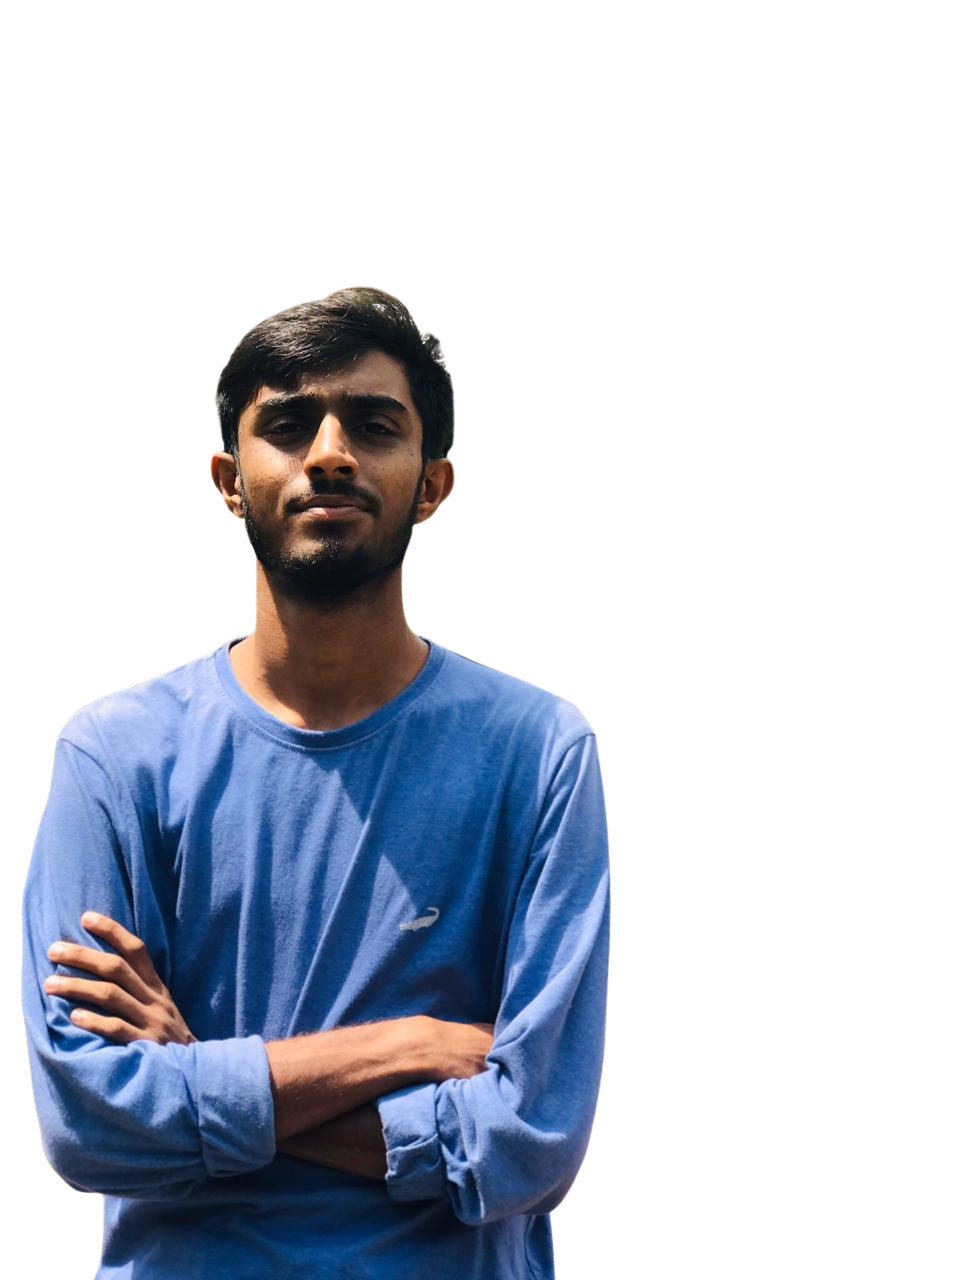
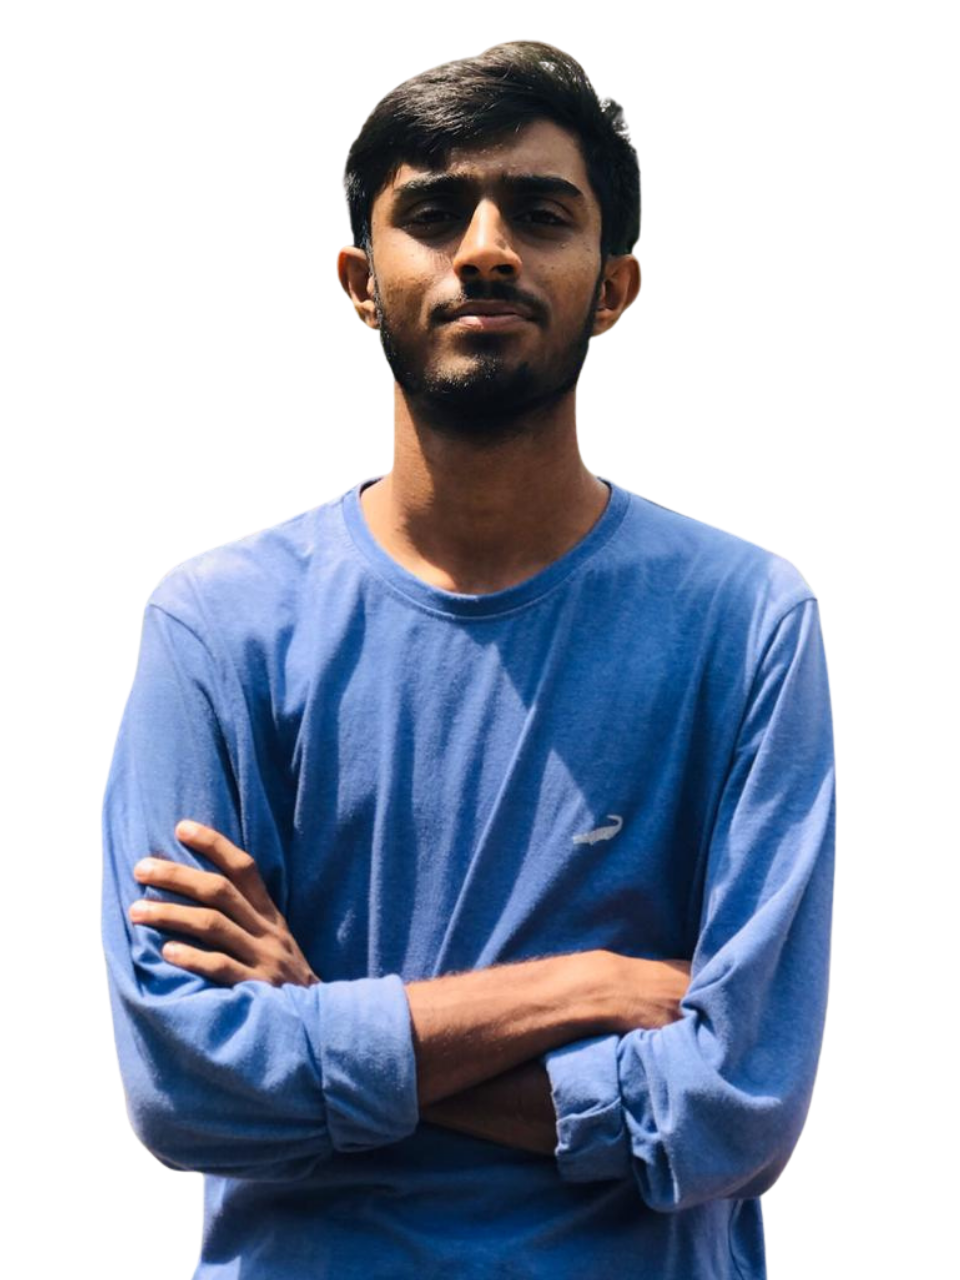
uploading portfolio

diff --git a/src/components/Contact.jsx b/src/components/Contact.jsx
@@ -1,12 +1,9 @@
 export default function Contact() {
-  // handle Web3Forms submission
   const onSubmit = async (event) => {
     event.preventDefault();
     const formData = new FormData(event.target);
 
-    // add your Web3Forms access key
     formData.append("access_key", "7769eadd-de41-47ea-894d-790b8655bc43");
-
     const object = Object.fromEntries(formData);
     const json = JSON.stringify(object);
 
@@ -33,94 +30,103 @@ export default function Contact() {
       className="px-8 py-16 bg-darkblue"
       style={{ fontFamily: '"Times New Roman", Times, serif' }}
     >
+      {/* Heading */}
       <h1 className="text-4xl md:text-5xl font-extrabold text-center text-gold mb-6">
         Contact Me
       </h1>
       <div className="w-24 h-1 bg-gold mx-auto mb-12 rounded-full"></div>
-      <p className="mb-10 text-center text-gray-400 text-2xl mr-150">
-        Let's connect! Fill out the form below 👇
-      </p>
 
-      <div className="max-w-6xl mx-auto flex flex-col md:flex-row gap-10">
-        {/* Contact Form */}
-        <form
-          onSubmit={onSubmit}
-          className="flex-1 bg-gray-800 p-8 rounded-2xl shadow-lg space-y-4 border border-white text-white"
-        >
-          <div>
-            <label htmlFor="name" className="block text-sm font-medium text-gray-100">
-              Full Name
-            </label>
-            <input
-              type="text"
-              id="name"
-              name="name"
-              required
-              className="mt-1 w-full px-4 py-2 border rounded-lg border-white focus:ring-1 focus:ring-gold focus:outline-none"
-            />
-          </div>
+      {/* Container for paragraph + form + info */}
+      <div className="max-w-6xl mx-auto flex flex-col items-center md:items-start gap-10">
+        
+        {/* Paragraph: order changes on medium+ screens */}
+<p className="mb-10 text-center text-gray-400 text-2xl md:ml-24">
+  Let's connect! Fill out the form below 👇
+</p>
 
-          <div>
-            <label htmlFor="email" className="block text-sm font-medium text-gray-100">
-              Email Address
-            </label>
-            <input
-              type="email"
-              id="email"
-              name="email"
-              required
-              className="mt-1 w-full px-4 py-2 border rounded-lg border-white focus:ring-1 focus:ring-gold focus:outline-none"
-            />
-          </div>
 
-          <div>
-            <label htmlFor="message" className="block text-sm font-medium text-gray-100">
-              Message
-            </label>
-            <textarea
-              id="message"
-              name="message"
-              rows="4"
-              required
-              className="mt-1 w-full px-4 py-2 border rounded-lg border-white focus:ring-1 focus:ring-gold focus:outline-none"
-            ></textarea>
-          </div>
-
-          <button
-            type="submit"
-            className="w-full bg-blue-600 text-white px-6 py-3 rounded-lg font-semibold hover:bg-blue-700 transition"
+        {/* Form + Contact Info Wrapper */}
+        <div className="flex flex-col md:flex-row w-full gap-10">
+          {/* Contact Form */}
+          <form
+            onSubmit={onSubmit}
+            className="flex-1 bg-gray-800 p-8 rounded-2xl shadow-lg space-y-4 border border-white text-white"
           >
-            Send Message
-          </button>
-        </form>
-
-        {/* Contact Info */}
-        <div className="flex-1 flex flex-col justify-center items-start p-8 rounded-2xl text-white space-y-6 text-left">
-          {/* Email */}
-          <div className="flex flex-col">
-            <div className="flex items-center space-x-2">
-              <i className="fas fa-envelope text-xl" style={{ color: 'var(--color-dark2-blue)' }}></i>
-              <span className="font-bold text-lg gold">Email</span>
+            <div>
+              <label htmlFor="name" className="block text-sm font-medium text-gray-100">
+                Full Name
+              </label>
+              <input
+                type="text"
+                id="name"
+                name="name"
+                required
+                className="mt-1 w-full px-4 py-2 border rounded-lg border-white focus:ring-1 focus:ring-gold focus:outline-none"
+              />
             </div>
-            <p className="mt-1 text-gray-400">rifdhiramiz18@gmail.com</p>
-          </div>
 
-          {/* Phone */}
-          <div className="flex flex-col">
-            <div className="flex items-center space-x-2">
-              <i className="fas fa-phone text-xl" style={{ color: 'var(--color-dark2-blue)' }}></i>
-              <span className="font-bold text-lg gold">Phone</span>
+            <div>
+              <label htmlFor="email" className="block text-sm font-medium text-gray-100">
+                Email Address
+              </label>
+              <input
+                type="email"
+                id="email"
+                name="email"
+                required
+                className="mt-1 w-full px-4 py-2 border rounded-lg border-white focus:ring-1 focus:ring-gold focus:outline-none"
+              />
             </div>
-            <p className="mt-1 text-gray-400">+94 76 247 3449</p>
-          </div>
 
-          {/* Location */}
-          <div className="flex flex-col">
-            <div className="flex items-center space-x-2">
-              <i className="fas fa-map-marker-alt text-xl" style={{ color: 'var(--color-dark2-blue)' }}></i>
-              <span className="font-bold text-lg gold">Location</span>
+            <div>
+              <label htmlFor="message" className="block text-sm font-medium text-gray-100">
+                Message
+              </label>
+              <textarea
+                id="message"
+                name="message"
+                rows="4"
+                required
+                className="mt-1 w-full px-4 py-2 border rounded-lg border-white focus:ring-1 focus:ring-gold focus:outline-none"
+              ></textarea>
             </div>
-            <p className="mt-1 text-gray-400">Mawanella, Sri Lanka</p>
+
+            <button
+              type="submit"
+              className="w-full bg-blue-600 text-white px-6 py-3 rounded-lg font-semibold hover:bg-blue-700 transition"
+            >
+              Send Message
+            </button>
+          </form>
+
+          {/* Contact Info */}
+          <div className="flex-1 flex flex-col justify-center items-center md:items-start p-8 rounded-2xl text-white space-y-6 text-center md:text-left">
+            {/* Email */}
+            <div className="flex flex-col items-center md:items-start">
+              <div className="flex items-center space-x-2">
+                <i className="fas fa-envelope text-xl" style={{ color: 'var(--color-dark2-blue)' }}></i>
+                <span className="font-bold text-lg gold">Email</span>
+              </div>
+              <p className="mt-1 text-gray-400">rifdhiramiz18@gmail.com</p>
+            </div>
+
+            {/* Phone */}
+            <div className="flex flex-col items-center md:items-start">
+              <div className="flex items-center space-x-2">
+                <i className="fas fa-phone text-xl" style={{ color: 'var(--color-dark2-blue)' }}></i>
+                <span className="font-bold text-lg gold">Phone</span>
+              </div>
+              <p className="mt-1 text-gray-400">+94 76 247 3449</p>
+            </div>
+
+            {/* Location */}
+            <div className="flex flex-col items-center md:items-start">
+              <div className="flex items-center space-x-2">
+                <i className="fas fa-map-marker-alt text-xl" style={{ color: 'var(--color-dark2-blue)' }}></i>
+                <span className="font-bold text-lg gold">Location</span>
+              </div>
+              <p className="mt-1 text-gray-400">Mawanella, Sri Lanka</p>
+            </div>
           </div>
         </div>
       </div>

diff --git a/src/components/Home.jsx b/src/components/Home.jsx
@@ -2,35 +2,52 @@ export default function Home() {
   return (
     <section
       id="home"
-      className="flex flex-col md:flex-row items-center justify-center text-center h-screen px-6 md:px-20 gap-10 
-      bg-darkblue
-      bg-no-repeat bg-right bg-contain"
-      style={{ backgroundImage: "url('Rifdhi1.png')" }}
+      className="
+        flex flex-col-reverse md:flex-row items-center justify-center
+        min-h-screen px-6 md:px-20 gap-10
+        bg-darkblue pt-20 md:pt-0
+      "
+      style={{ fontFamily: '"Times New Roman", Times, serif' }}
     >
-      {/* Text on the Left */}
-      <div
-        className="max-w-3xl md:mr-auto md:ml-50"
-        style={{ fontFamily: '"Times New Roman", Times, serif' }}
-      >
-        <h2 className="text-xl text-gray-400 mb-6">
+      {/* Text Section */}
+      <div className="max-w-3xl text-center">
+        <h2 className="text-lg sm:text-xl text-gray-400 mb-4 sm:mb-6">
           Software Engineer
         </h2>
 
-        <h1 className="text-7xl font-extrabold text-gold mb-6">
+        <h1 className="
+          text-4xl sm:text-5xl md:text-6xl lg:text-7xl
+          font-extrabold text-gold mb-4 sm:mb-6 whitespace-nowrap
+        ">
           Rifdhi Ramiz
         </h1>
 
-        <p className="text-xl text-gray-400 pb-6 mb-6">
+        <p className="text-base sm:text-lg md:text-xl text-gray-400 mb-6 sm:mb-8">
           As an aspiring software engineer, I specialize in designing and developing responsive,
           secure, and engaging web applications that make a real-world difference.
         </p>
 
         <a
           href="#projects"
-          className="border-2 border-white text-gold bg-transparent px-6 py-3 rounded-lg font-semibold hover:bg-primary hover:text-white transition"
+          className="
+            border-2 border-white text-gold px-6 py-3 rounded-lg font-semibold
+            hover:bg-primary hover:text-white transition
+          "
         >
           View My Work
         </a>
+      </div>
+
+      {/* Image Section */}
+      <div className="w-full md:w-1/2 flex justify-center md:justify-end">
+        <img
+          src="Rifdhi1.png"
+          alt="Profile"
+          className="
+            w-64 sm:w-72 md:w-96 lg:w-[28rem]
+            object-contain
+          "
+        />
       </div>
     </section>
   );

diff --git a/src/components/Navbar.jsx b/src/components/Navbar.jsx
@@ -8,16 +8,28 @@ export default function Navbar() {
       <div className="max-w-7xl mx-auto px-6 py-4 flex justify-between items-center">
 
         {/* Logo */}
-        <div className="flex items-center space-x-3">
-          <img
-            src="/Portfolio 2.png"   // <-- replace with your logo path
-            alt="Logo"
-            className="h-10 w-10 object-contain rounded-full"
-          />
-          <h1 className="text-2xl font-bold tracking-wide">
-            Mohamed Ramiz Mohamed Rifdhi
-          </h1>
-        </div>
+<div className="flex items-center space-x-3">
+
+  {/* Small screens (logo only) */}
+  <img
+    src="/Portfolio.png"
+    alt="Logo"
+    className="h-10 w-auto object-contain block md:hidden"
+  />
+
+  {/* Medium screens (short name) */}
+  <h1 className="text-2xl font-bold tracking-wide hidden md:block lg:hidden whitespace-nowrap">
+    Mohamed Rifdhi
+  </h1>
+
+  {/* Large screens (full name) */}
+  <h1 className="text-2xl font-bold tracking-wide hidden lg:block whitespace-nowrap">
+    Mohamed Ramiz Mohamed Rifdhi
+  </h1>
+
+</div>
+
+
 
         {/* Desktop Menu */}
         <ul className="hidden md:flex space-x-8 text-lg">
